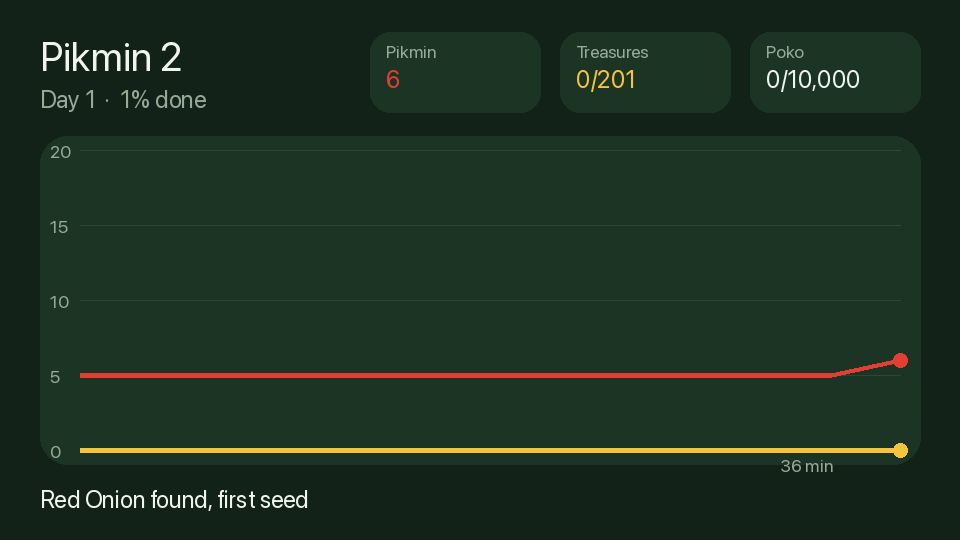
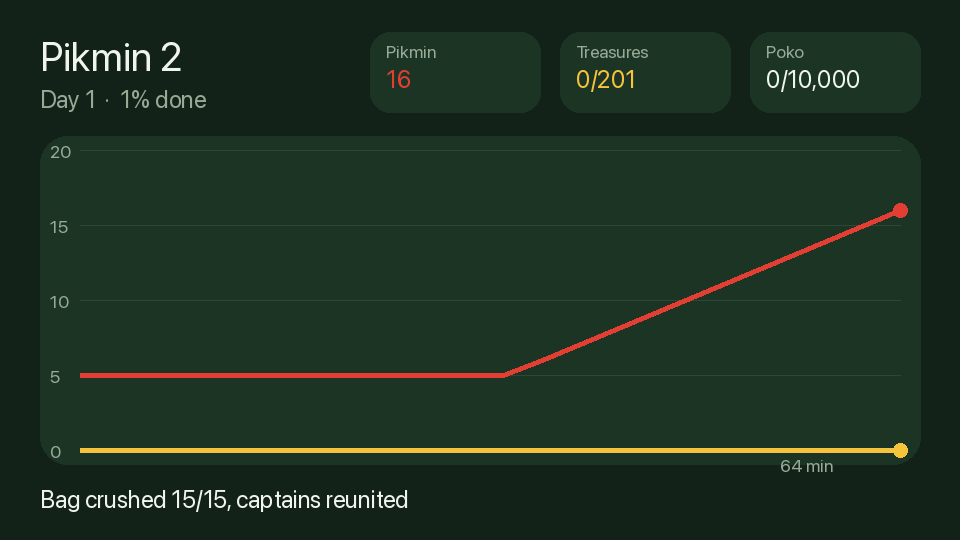
Pikmin: bag crushed, reactor carry, iPhone wallpaper
Claude-Session: https://claude.ai/code/session_01GRUokM32JgeWkBY35PaRht

diff --git a/games/pikmin/wallpaper.py b/games/pikmin/wallpaper.py
@@ -1,0 +1,52 @@
+"""The Pikmin 2 run as an iPhone wallpaper (1320x2868): the live game screen under the lock screen clock, then the
+Pikmin, treasure and Poko counts from progress.jsonl. Saved to the top of iCloud Drive, where Files shows it first.
+python3 wallpaper.py [screen.png] [out.jpg]"""
+import sys
+from pathlib import Path
+
+from PIL import Image, ImageDraw
+
+import graph
+from graph import BG, PANEL, INK, DIM, RED, GOLD, GOAL, font
+
+OUT = Path.home() / "Library/Mobile Documents/com~apple~CloudDocs/Pikmin Wallpaper.jpg"
+W, H = 1320, 2868
+
+
+def draw(screen, out=OUT):
+    rows = graph.rows()
+    last = rows[-1] if rows else dict(day=1, pikmin=0, treasures=0, poko=0, pct=0, note="")
+    img = Image.new("RGB", (W, H), BG)
+    d = ImageDraw.Draw(img)
+
+    # The clock covers roughly the top quarter; the game sits just under it.
+    shot = Image.open(screen).convert("RGB")
+    sw = W - 96
+    shot = shot.resize((sw, sw * shot.height // shot.width))
+    y = 820
+    d.rounded_rectangle([32, y - 16, W - 32, y + shot.height + 16], 56, fill=PANEL)
+    mask = Image.new("L", shot.size, 0)
+    ImageDraw.Draw(mask).rounded_rectangle([0, 0, *shot.size], 44, fill=255)
+    img.paste(shot, (48, y), mask)
+
+    y += shot.height + 72
+    big, mid = font(120), font(56)
+    cards = [("Pikmin", str(last["pikmin"]), RED), ("Treasures", f"{last['treasures']}/{GOAL}", GOLD),
+             ("Day", str(last["day"]), INK)]
+    cw = (W - 64 - 2 * 32) // 3
+    for i, (label, v, c) in enumerate(cards):
+        x = 32 + i * (cw + 32)
+        d.rounded_rectangle([x, y, x + cw, y + 300], 56, fill=PANEL)
+        d.text((x + 40, y + 40), label, font=mid, fill=DIM)
+        d.text((x + 40, y + 120), v, font=big, fill=c)
+    y += 360
+    d.text((48, y), f"{last['pct']}% done  ·  {last['poko']:,} of 10,000 Poko", font=mid, fill=DIM)
+    d.text((48, y + 90), last["note"], font=mid, fill=INK)
+
+    Path(out).parent.mkdir(parents=True, exist_ok=True)
+    img.save(out, quality=92)
+    return out
+
+
+if __name__ == "__main__":
+    print(draw(*sys.argv[1:]))

diff --git a/games/pikmin/reactor.py b/games/pikmin/reactor.py
@@ -1,0 +1,26 @@
+"""Day 1: clear the reunion dialog, whistle everyone, carry the Courage Reactor (-1070, 3290) to the ship."""
+import math
+import time
+
+import pk2
+
+R = (-1070, 3290)
+pad = pk2.Pad()
+pk2.ACTIVE = 1                                  # Louie leads after the reunion (big icon, bottom left)
+print("ctl", pk2.control(pad, 40), flush=True)
+ps = pk2.pikis()
+cx, cz = sum(q[0] for q in ps) / len(ps), sum(q[1] for q in ps) / len(ps)
+print("to crew", pk2.travel(pad, cx, cz, near=110), flush=True)
+for _ in range(3):
+    pk2.whistle_at(pad, cx, cz, ms=2500)
+print("squad", pk2.squad(0), pk2.squad(1), flush=True)
+print("travel", pk2.travel(pad, *R, near=110), [round(v) for v in pk2.pos()], flush=True)
+print("miss", round(pk2.throw_at(pad, *R, n=pk2.squad(pk2.ACTIVE))), flush=True)
+for _ in range(60):
+    time.sleep(3)
+    left = [p for p in pk2.pellets() if p["i"] == 2]
+    if not left:
+        print("delivered", flush=True)
+        break
+    print("reactor at", round(left[0]["x"]), round(left[0]["z"]), flush=True)
+print(pk2.shot("reactor"), flush=True)
